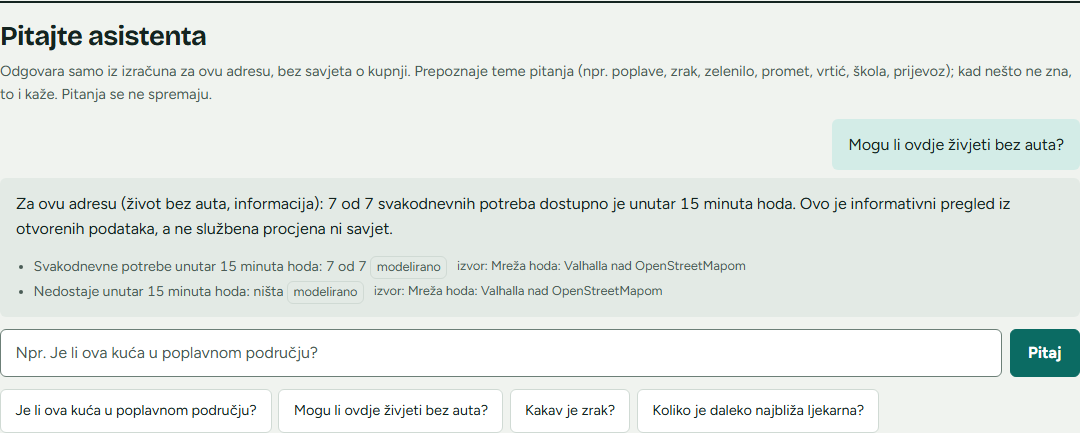
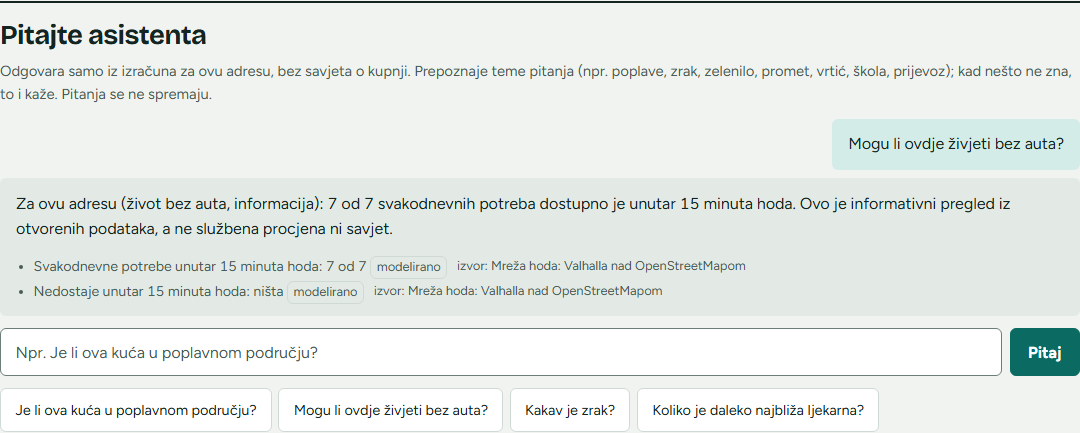
fix(ui): score on one line, calmer row values; progress notes on the finish review

diff --git a/frontend/src/index.css b/frontend/src/index.css
@@ -2240,7 +2240,7 @@ section[aria-labelledby='env-title'] > .grid {
 
 section[aria-labelledby='env-title'] .category.card {
   display: grid;
-  grid-template-columns: minmax(0, 15rem) minmax(0, 1fr);
+  grid-template-columns: minmax(0, 17rem) minmax(0, 1fr);
   grid-auto-flow: dense;
   column-gap: 2rem;
   align-items: start;
@@ -2282,6 +2282,17 @@ section[aria-labelledby='env-title'] .category > .headline {
 
 section[aria-labelledby='env-title'] .category .key-value {
   margin: 0.4rem 0 0;
+}
+
+/* In a row the value is a figure beside the sentence, not a headline over it. */
+section[aria-labelledby='env-title'] .category .key-number {
+  font-size: 1.4rem;
+  line-height: 1.2;
+}
+
+.life-score-number {
+  white-space: nowrap;
+  flex: none;
 }
 
 @media (width <= 640px) {

diff --git a/PROGRESS.md b/PROGRESS.md
@@ -108,3 +108,4 @@ Ako ponestane vremena, režem ovim redom:
     - **izvještaj:** iskaznica mjesta (smeđi pojas s adresom, sažetak iz predložaka, šest oznaka sa statusom, skor), traka „Dijelovi izvještaja”, karta doleti do adrese, a krugovi hoda šire se redom;
     - **karta:** jezerska ljestvica, legenda uz kartu, kartica naselja sa smeđim pojasom;
     - **provjere:** kritika (dizajn i detektor) i popravci, detektor bez nalaza; `make verify` prolazi (pytest 149, Vitest 61, Playwright 60, axe u obje teme i 320 px); snimke prije u `docs/images/prije-redizajna/`, poslije u `docs/images/`.
+    - **završni pregled (Impeccable, dva kruga):** riješeno tijelo izvještaja kao retci, staza „Dijelovi izvještaja”, gumb uz adresu na mobitelu; otvoreno (odluka tima): prijedlozi kao „iskaznice” sa smeđim pojasom, popis „Svakodnevni život” kao putokazi, oznaka „Predloži mjesto za život” iznad trake (drži je postojeći e2e test navigacije), nacrtana strelica padajućih izbornika.
